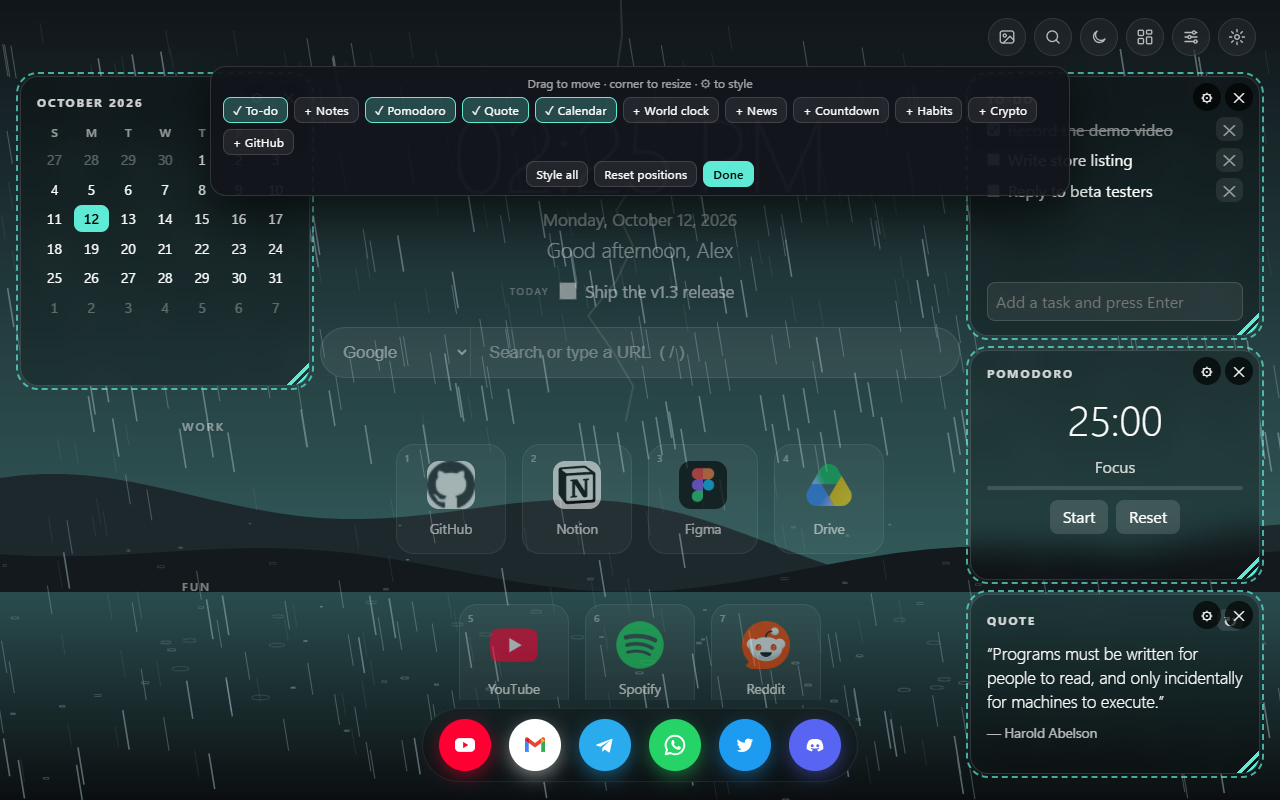
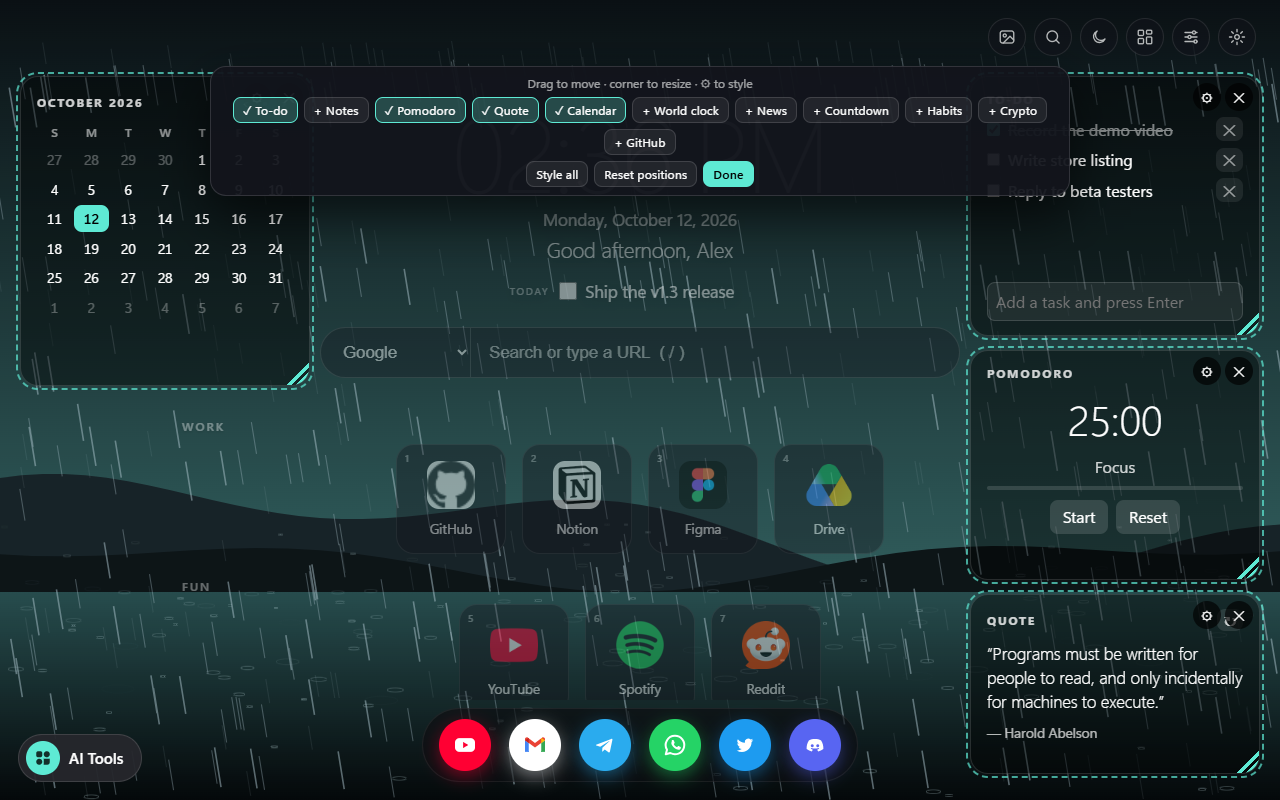
AI Tools launcher, smooth mode and adaptive scene resolution
- Bottom-left AI Tools button slides out ChatGPT, Gemini, Copilot, Claude, DeepSeek,
  Perplexity and Meta AI; click again to fold them back; dock steps aside on overlap
- Smooth mode: no backdrop blur over animated scenes (tinted glass instead)
- Live scenes lower/raise resolution based on frame timing
- Widget drag uses transforms coalesced per frame; world clock updates per minute

diff --git a/newtab.css b/newtab.css
@@ -340,3 +340,43 @@ main { padding-bottom: 100px; }
 .scene.festival { background: radial-gradient(circle at 30% 30%, #ffd36b 0 3%, transparent 4%), radial-gradient(circle at 70% 40%, #ff6fb0 0 3%, transparent 4%), radial-gradient(circle at 55% 75%, #ffae4288 0 8%, transparent 9%), linear-gradient(#06040f, #3a1414); }
 .scene.snow { background: radial-gradient(circle, #fff 0 1px, transparent 1.5px) 0 0/8px 8px, linear-gradient(#0b1a33, #3d5f8f); }
 .scene.rain { background: repeating-linear-gradient(105deg, #bcd8e044 0 1px, transparent 1px 6px), linear-gradient(#0b1216, #24434a); }
+
+/* ---- AI Tools launcher (bottom left) ---- */
+#aibar { position: fixed; left: 18px; bottom: 18px; z-index: 5; display: flex; align-items: center; gap: 10px; max-width: calc(100vw - 36px); }
+#aiToggle, .aipill { display: flex; align-items: center; gap: 9px; height: 48px; padding: 0 18px 0 7px; border-radius: 24px; border: 1px solid #ffffff1f; background: #26272cee; color: #fff; font: 500 .95rem "Segoe UI Variable Text", "Segoe UI", system-ui, sans-serif; white-space: nowrap; text-decoration: none; cursor: pointer; flex: none; }
+#aiToggle { position: relative; z-index: 1; transition: background .2s, translate .2s var(--ease), box-shadow .2s; }
+#aiToggle:hover { background: #33343a; translate: 0 -2px; box-shadow: 0 8px 22px #0007; }
+#aiToggle .ic { width: 34px; height: 34px; border-radius: 50%; display: grid; place-items: center; background: var(--accent); transition: rotate .45s var(--ease); }
+#aiToggle .ic svg { width: 18px; height: 18px; fill: #000c; }
+#aibar.open #aiToggle .ic { rotate: 90deg; }
+#aibar.open #aiToggle { background: #33343a; }
+#aibar .sep { width: 3px; height: 36px; border-radius: 2px; background: #ffffff66; flex: none; transform: scaleY(0); transition: transform .25s var(--ease); }
+#aibar.open .sep { transform: scaleY(1); }
+#aiList { display: flex; gap: 10px; pointer-events: none; }
+#aibar.open #aiList { pointer-events: auto; }
+/* Slide out left-to-right when opening, fold back right-to-left when closing */
+.aipill { opacity: 0; transform: translateX(-28px) scale(.92); transition: opacity .22s ease calc(var(--r) * 28ms), transform .3s var(--ease) calc(var(--r) * 28ms), translate .2s var(--ease), background .2s, box-shadow .2s; }
+#aibar.open .aipill { opacity: 1; transform: none; transition: opacity .28s ease calc(var(--d) * 45ms + 40ms), transform .42s cubic-bezier(.2, .9, .25, 1.15) calc(var(--d) * 45ms + 40ms), translate .2s var(--ease), background .2s, box-shadow .2s; }
+.aipill:hover, .aipill:focus-visible { background: color-mix(in srgb, var(--accent) 28%, #26272c); translate: 0 -3px; box-shadow: 0 10px 24px #0008; outline: none; }
+.aipill .aiico { width: 34px; height: 34px; padding: 6px; border-radius: 50%; background: #fff; flex: none; }
+#aibar.compact .aipill { padding: 0 7px; }
+#aibar.compact .aipill span { display: none; }
+#apps { transition: translate .4s var(--ease), opacity .3s; }
+body.ai-over-dock #apps { translate: -50% 160%; opacity: 0; pointer-events: none; }
+#credit { left: auto; right: 20px; text-align: right; }
+.layout-minimal #aibar { bottom: 18px; }
+@media (max-width: 700px) { #aiToggle > span:last-child { display: none; } #aiToggle { padding: 0 7px; } }
+
+/* ---- Smooth mode: no backdrop blur while a 3D scene animates behind (it's re-blurred every frame) ---- */
+.smooth .card, .smooth .hbtn, .smooth #search, .smooth #apps, .smooth #drawer, .smooth #palette, .smooth #suggest,
+.smooth #editbar, .smooth #wpanel, .smooth #welcome, .smooth.layout-minimal #grid { backdrop-filter: none; }
+.smooth .card { background: #12131acc; }
+.smooth .card:hover { background: #1d1f29e6; }
+.smooth.style-solid .card { background: color-mix(in srgb, var(--accent) 16%, #0d0f16f0); }
+.smooth.style-outline .card { background: #0000001f; }
+.smooth .hbtn { background: #12131aa6; }
+.smooth #search { background: #12131ab8; }
+.smooth #apps { background: #0b0c10a6; }
+.smooth #palette { background: #000a; }
+.smooth #welcome { background: #000b; }
+.smooth.layout-minimal #grid { background: #0b0c10b3; }

diff --git a/newtab.js b/newtab.js
@@ -20,7 +20,7 @@ function tick() {
   const part = hr < 5 ? "night" : hr < 12 ? "morning" : hr < 17 ? "afternoon" : hr < 22 ? "evening" : "night";
   $("greeting").textContent = S.userName ? `Good ${part}, ${S.userName}` : "";
   if (S.widgets.pomodoro) updatePomo();
-  if (S.widgets.worldclock) updateZones();
+  if (S.widgets.worldclock && now.getSeconds() === 0) updateZones();
 }
 
 // ---- Appearance ----
@@ -29,6 +29,8 @@ function applyTheme() {
   b.classList.remove(...[...b.classList].filter((c) => /^(layout|size|style)-/.test(c)));
   b.classList.add(`layout-${S.layout}`, `size-${S.cardSize}`, `style-${S.cardStyle}`);
   b.classList.toggle("anim", S.animations && !reducedMotion.matches);
+  // Glass blur over an animated wallpaper is recomputed every frame; Smooth mode swaps it for tinted glass
+  b.classList.toggle("smooth", S.smooth && S.wpMode === "live" && S.animations && !reducedMotion.matches);
   b.style.setProperty("--accent", /^#[0-9a-f]{6}$/i.test(S.accent) ? S.accent : DEFAULTS.accent);
 }
 
@@ -75,6 +77,38 @@ function renderDock() {
   d.hidden = !S.dockVisible || !S.dock.length;
   d.replaceChildren(...S.dock.map(appButton));
 }
+
+// ---- AI Tools launcher (bottom left): pills slide out of the button and back in ----
+function renderAi() {
+  $("aibar").hidden = !S.aiTools;
+  $("aiList").replaceChildren(...AI_TOOLS.map((t, i) => {
+    const a = el("a", "aipill");
+    a.href = t.url; a.title = t.name; a.tabIndex = -1;
+    a.style.setProperty("--d", i);
+    a.style.setProperty("--r", AI_TOOLS.length - 1 - i);
+    a.append(linkIcon({ url: t.url, icon: "" }, "aiico"), el("span", "", t.name));
+    return a;
+  }));
+}
+
+function toggleAi(open = !$("aibar").classList.contains("open")) {
+  const bar = $("aibar");
+  bar.classList.remove("compact");
+  if (open) {
+    // Measure the fully open row (pills keep their size while hidden): too wide for the window
+    // → icons only; reaching the app dock → slide the dock away while the row is open
+    const room = innerWidth - bar.getBoundingClientRect().left - 16;
+    if (bar.scrollWidth > room) bar.classList.add("compact");
+    const dock = $("apps").getBoundingClientRect();
+    document.body.classList.toggle("ai-over-dock", !$("apps").hidden && bar.getBoundingClientRect().left + bar.scrollWidth > dock.left - 12);
+  } else {
+    document.body.classList.remove("ai-over-dock");
+  }
+  bar.classList.toggle("open", open);
+  $("aiToggle").setAttribute("aria-expanded", open);
+  for (const a of $("aiList").children) a.tabIndex = open ? 0 : -1;
+}
+$("aiToggle").onclick = () => toggleAi();
 
 // ---- Today's main focus ----
 function renderFocus() {
@@ -152,6 +186,7 @@ document.addEventListener("keydown", (e) => {
   if (e.key === "Escape") {
     if (!$("palette").hidden) closePalette();
     else if (!$("wpanel").hidden) closeWidgetPanel();
+    else if ($("aibar").classList.contains("open")) toggleAi(false);
     else if (isEditing()) toggleEdit(false);
     else if (!$("drawer").hidden) toggleDrawer(false);
     else if (document.body.classList.contains("zen")) toggleZen();
@@ -526,6 +561,8 @@ function renderDrawer() {
     field("Card size", seg("cardSize", [["s", "S"], ["m", "M"], ["l", "L"]])),
     field("Card style", seg("cardStyle", [["glass", "Glass"], ["solid", "Solid"], ["outline", "Outline"]])),
     toggle("Animations", "animations"),
+    toggle("Smooth mode (no glass blur over 3D scenes)", "smooth"),
+    toggle("AI Tools button", "aiTools"),
     toggle("24-hour clock", "clock24"),
     more
   );
@@ -538,7 +575,7 @@ function toggleDrawer(open = $("drawer").hidden) {
 
 // ---- Boot ----
 function renderAll() {
-  applyTheme(); renderLinks(); renderDock(); renderFocus(); renderWidgets(); renderWeather(); applyWallpaper(); tick();
+  applyTheme(); renderLinks(); renderDock(); renderAi(); renderFocus(); renderWidgets(); renderWeather(); applyWallpaper(); tick();
   $("engine").value = S.engine;
 }
 

diff --git a/live.js b/live.js
@@ -777,6 +777,8 @@ const SCENE_BUILDERS = { webcity, festival, snow, rain, galaxy, warp, synthwave,
 // ---- Controller: one running scene at a time ----
 const Live = (() => {
   let host, canvas, scene, args, key = "", raf = 0, last = 0, t0 = 0, q, ro;
+  // Adaptive resolution: if frames arrive late (busy CPU/GPU), render fewer pixels; recover slowly
+  let dyn = 1, gapAvg = 0, settleUntil = 0, goodSince = 0;
   const mouse = { x: 0, y: 0, tx: 0, ty: 0 };
   addEventListener("pointermove", (e) => { mouse.tx = (e.clientX / innerWidth) * 2 - 1; mouse.ty = (e.clientY / innerHeight) * 2 - 1; });
 
@@ -786,21 +788,37 @@ const Live = (() => {
   function frame(ts) {
     raf = requestAnimationFrame(frame);
     if (ts - last < 1000 / q.fps - 2) return;
-    const dt = Math.min(0.1, (ts - last) / 1000);
+    const gap = ts - last, dt = Math.min(0.1, gap / 1000);
     last = ts;
+    adapt(gap, ts);
     mouse.x += (mouse.tx - mouse.x) * 0.04; mouse.y += (mouse.ty - mouse.y) * 0.04;
     scene.draw(now(), canvas.width, canvas.height, mouse, dt);
+  }
+  function adapt(gap, ts) {
+    if (ts < settleUntil) return; // ignore start-up and the frames right after a change
+    const target = 1000 / q.fps;
+    gapAvg = gapAvg ? gapAvg * 0.92 + gap * 0.08 : gap;
+    if (gapAvg > target * 1.35 && dyn > 0.45) {
+      dyn = Math.max(0.45, dyn * 0.85); resize(); goodSince = 0;
+    } else if (gapAvg < target * 1.08 && dyn < 1) {
+      goodSince ||= ts;
+      if (ts - goodSince > 4000) { dyn = Math.min(1, dyn / 0.85); resize(); goodSince = 0; }
+    } else {
+      goodSince = 0;
+    }
   }
   function play() {
     if (raf || !scene || !args.animate || document.hidden) return;
     last = performance.now();
+    settleUntil = last + 2000; gapAvg = 0;
     raf = requestAnimationFrame(frame);
   }
   function pause() { cancelAnimationFrame(raf); raf = 0; }
   document.addEventListener("visibilitychange", () => (document.hidden ? pause() : play()));
 
   function resize() {
-    const r = Math.min(devicePixelRatio || 1, 2) * q.scale;
+    const r = Math.min(devicePixelRatio || 1, 2) * q.scale * dyn;
+    settleUntil = performance.now() + 1500; gapAvg = 0;
     canvas.width = Math.max(1, Math.round(host.clientWidth * r));
     canvas.height = Math.max(1, Math.round(host.clientHeight * r));
     drawOnce(); // resizing clears the canvas; repaint immediately to avoid a flash
@@ -829,6 +847,7 @@ const Live = (() => {
     stop();
     host = el; key = k; args = { ...opts, host: el, name };
     q = LIVE_QUALITY[opts.quality] || LIVE_QUALITY.medium;
+    dyn = 1;
     const accent = hexRgb(opts.accent);
     build(name, { accent, accent2: hueShift(accent, -45), n: q.n });
     t0 = performance.now() - 8000; // start a few seconds in so a still frame looks settled

diff --git a/widgetlayout.js b/widgetlayout.js
@@ -47,9 +47,11 @@ function placeWidget(w, r) {
 
 function paintWidget(w, st) {
   const tint = st.tint === "light" ? [255, 255, 255] : st.tint === "accent" ? hexRgb(S.accent) : [0, 0, 0];
+  const smooth = document.body.classList.contains("smooth"); // no per-frame blur over a moving wallpaper
+  const bg = smooth && st.blur ? Math.min(90, st.bg + st.blur * 1.2) : st.bg;
   Object.assign(w.style, {
-    background: `rgba(${tint.join(",")},${st.bg / 100})`,
-    backdropFilter: st.blur ? `blur(${st.blur}px)` : "none",
+    background: `rgba(${tint.join(",")},${bg / 100})`,
+    backdropFilter: st.blur && !smooth ? `blur(${st.blur}px)` : "none",
     opacity: st.opacity / 100,
     fontFamily: (WIDGET_FONTS[st.font] || WIDGET_FONTS.system)[1],
     fontSize: st.size + "%",
@@ -90,21 +92,29 @@ function dragWidget(e, w, id, mode) {
   const snap = (v) => Math.round(v / GRID) * GRID;
   w.style.zIndex = z;
   w.classList.add("dragging");
-  const move = (ev) => {
+  let pending = null;
+  const move = (ev) => { // coalesce to one update per frame
+    if (!pending) requestAnimationFrame(() => { apply(pending); pending = null; });
+    pending = ev;
+  };
+  const apply = (ev) => {
+    if (!ev) return;
     const dx = ev.clientX - sx, dy = ev.clientY - sy;
     if (mode === "move") {
-      w.style.left = clamp(snap(b.left + dx), 0, W - b.width) + "px";
-      w.style.top = clamp(snap(b.top + dy), 0, H - b.height) + "px";
+      const x = clamp(snap(b.left + dx), 0, W - b.width) - b.left, y = clamp(snap(b.top + dy), 0, H - b.height) - b.top;
+      w.style.transform = `translate(${x}px, ${y}px)`;
     } else {
       w.style.width = clamp(snap(b.width + dx), MIN_W, W - b.left) + "px";
       w.style.height = clamp(snap(b.height + dy), MIN_H, H - b.top) + "px";
     }
   };
   const up = () => {
+    apply(pending); pending = null;
     removeEventListener("pointermove", move);
     removeEventListener("pointerup", up);
     w.classList.remove("dragging");
     const r = w.getBoundingClientRect();
+    Object.assign(w.style, { transform: "", left: r.left + "px", top: r.top + "px" });
     layoutOf(id).rect = { x: (r.left / W) * 100, y: (r.top / H) * 100, w: (r.width / W) * 100, h: (r.height / H) * 100, z };
     persist();
   };

diff --git a/options.js b/options.js
@@ -181,6 +181,7 @@ $("dockForm").onsubmit = (e) => {
 };
 $("dockLocked").onchange = (e) => save({ dockLocked: e.target.checked }, e.target.checked ? "Dock locked" : "Dock unlocked").then(renderDock);
 $("dockVisible").onchange = (e) => save({ dockVisible: e.target.checked });
+$("aiTools").onchange = (e) => save({ aiTools: e.target.checked });
 
 // ---- Wallpaper ----
 let previewVideoKey = "";
@@ -241,6 +242,7 @@ for (const k of ["dim", "blur"]) {
 for (const k of ["layout", "cardSize", "cardStyle"]) $(k).onchange = (e) => save({ [k]: e.target.value });
 $("accent").onchange = (e) => save({ accent: e.target.value }).then(renderPreview);
 $("animations").onchange = (e) => save({ animations: e.target.checked }).then(renderPreview);
+$("smooth").onchange = (e) => save({ smooth: e.target.checked });
 $("userName").onchange = (e) => save({ userName: e.target.value.trim() });
 
 for (const [name, t] of Object.entries(THEME_PRESETS)) {
@@ -405,6 +407,7 @@ function fillForm() {
   $("cardStyle").value = S.cardStyle; $("animations").checked = S.animations; $("userName").value = S.userName;
   $("zones").value = S.zones.join(", ");
   $("dockLocked").checked = S.dockLocked; $("dockVisible").checked = S.dockVisible;
+  $("aiTools").checked = S.aiTools; $("smooth").checked = S.smooth;
   $("rssUrl").value = S.rssUrl; $("cryptoCoins").value = S.cryptoCoins.join(", ");
   $("cryptoCurrency").value = S.cryptoCurrency; $("githubUser").value = S.githubUser;
   $("showFocus").checked = S.showFocus; $("pomoWork").value = S.pomoWork; $("pomoBreak").value = S.pomoBreak;

diff --git a/options.html b/options.html
@@ -47,6 +47,7 @@
     <div class="row">
       <label><input id="dockVisible" type="checkbox"> Show the dock</label>
       <label><input id="dockLocked" type="checkbox"> 🔒 Lock the dock (prevents changes)</label>
+      <label><input id="aiTools" type="checkbox"> Show the AI Tools button (bottom left)</label>
     </div>
     <ul id="dockList" class="links"></ul>
     <form id="dockForm" class="row">
@@ -97,6 +98,7 @@
       <label>Card size <select id="cardSize"><option value="s">Small</option><option value="m">Medium</option><option value="l">Large</option></select></label>
       <label>Card style <select id="cardStyle"><option value="glass">Glass</option><option value="solid">Solid</option><option value="outline">Outline</option></select></label>
       <label><input id="animations" type="checkbox"> Animations (entrance, 3D tilt, parallax, live scenes)</label>
+      <label><input id="smooth" type="checkbox"> Smooth mode (no glass blur over animated scenes — recommended)</label>
     </div>
     <label>Your name (for the greeting) <input id="userName" placeholder="e.g. Alex"></label>
     <button id="replayWelcome" type="button" class="soft">Show the welcome tour again</button>

diff --git a/apps.js b/apps.js
@@ -31,6 +31,17 @@ const APP_CATALOG = [
 ];
 const DEFAULT_DOCK = APP_CATALOG.slice(0, 6).map((a) => ({ ...a }));
 
+// AI Tools launcher (bottom left); fixed list, shown with each site's own icon
+const AI_TOOLS = [
+  { name: "ChatGPT", url: "https://chatgpt.com" },
+  { name: "Gemini", url: "https://gemini.google.com" },
+  { name: "Copilot", url: "https://copilot.microsoft.com" },
+  { name: "Claude", url: "https://claude.ai" },
+  { name: "DeepSeek", url: "https://chat.deepseek.com" },
+  { name: "Perplexity", url: "https://www.perplexity.ai" },
+  { name: "Meta AI", url: "https://www.meta.ai" }
+];
+
 // One round dock button; `icon` is a BRAND_ICONS key, an emoji, an image URL, or empty (site icon)
 function appButton(app) {
   const a = document.createElement("a");

diff --git a/newtab.html b/newtab.html
@@ -37,6 +37,14 @@
 
   <!-- App dock: buttons come from settings (S.dock); locked by default -->
   <nav id="apps" aria-label="Apps"></nav>
+  <div id="aibar">
+    <button id="aiToggle" aria-expanded="false" aria-controls="aiList" title="AI tools">
+      <span class="ic"><svg viewBox="0 0 24 24"><rect x="3" y="3" width="8" height="8" rx="2.5"/><rect x="13" y="3" width="8" height="8" rx="4"/><rect x="3" y="13" width="8" height="8" rx="4"/><path d="M13 13h8v4a4 4 0 0 1-4 4h-4z"/></svg></span>
+      <span>AI Tools</span>
+    </button>
+    <i class="sep"></i>
+    <nav id="aiList" aria-label="AI tools"></nav>
+  </div>
 
   <div id="palette" hidden>
     <div class="pbox">

diff --git a/shared.js b/shared.js
@@ -43,6 +43,8 @@ const DEFAULTS = {
   dock: DEFAULT_DOCK,
   dockLocked: true, // locked docks can't be edited until unlocked in settings
   dockVisible: true,
+  aiTools: true, // AI Tools launcher in the bottom-left corner
+  smooth: true, // drop glass blur over animated wallpapers (blur is re-rendered every frame)
   suggest: false, // search suggestions (asks for permission to the suggestion host)
   showFocus: true,
   focus: { text: "", date: "", done: false }, // "today's main focus"
